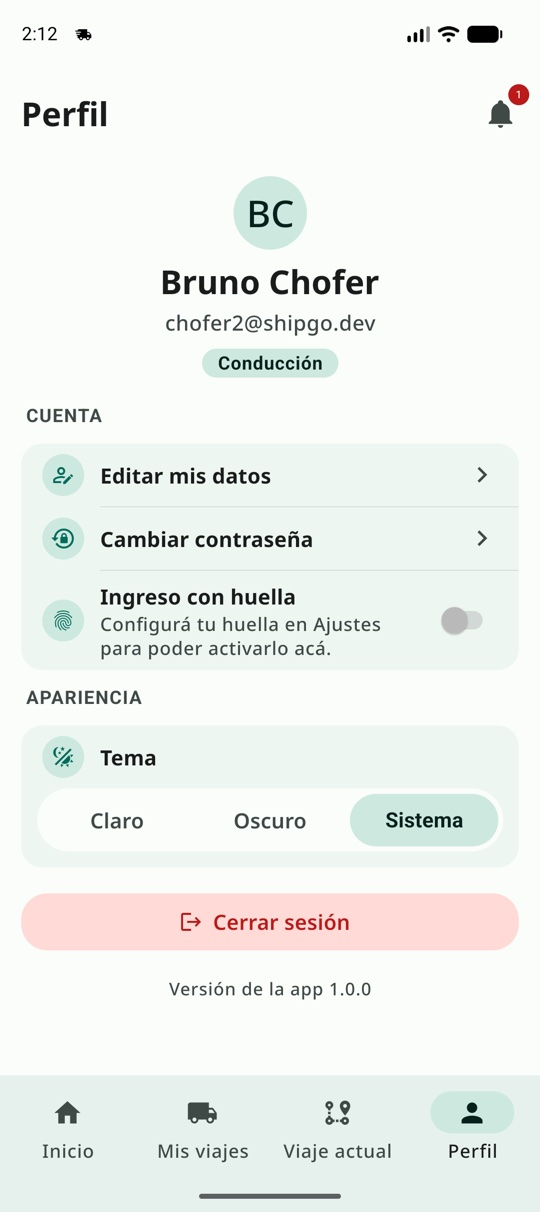
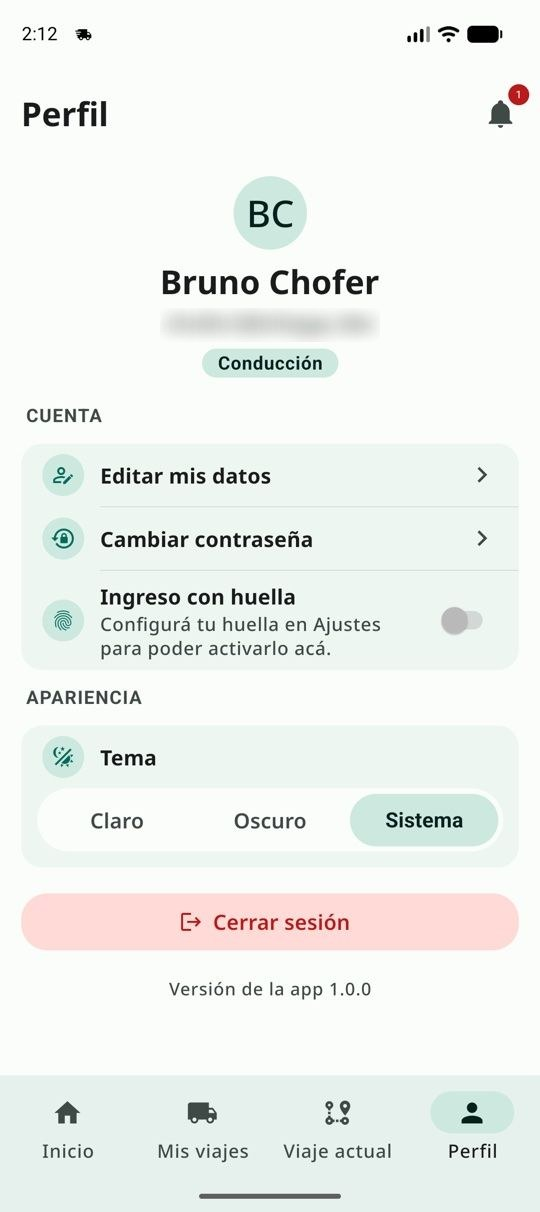
fix(manual): tercera ronda de correcciones de la auditoría
Permisos de edición de usuarios (Administrador vs Superusuario), tabla de
acciones por fila, datos de prueba difuminados en web-07 y capturas
recomprimidas.

Changed region(s): [[0.2963, 0.2442, 0.6815, 0.3053]]

diff --git a/src/content/docs/introduccion/conceptos-basicos.md b/src/content/docs/introduccion/conceptos-basicos.md
@@ -9,18 +9,18 @@ sidebar:
 
 Un **envío** es lo que se le entrega a un destinatario. Un mismo envío puede tener varios **paquetes** (bultos), cada uno con su categoría, peso y una descripción opcional.
 
-Cada envío recibe un **código de seguimiento** único. Con ese código el cliente consulta el estado del envío, y el código viaja impreso en el QR de la [etiqueta](/manual/panel-web/etiqueta-envio/).
+Cada envío recibe un **código de seguimiento** único. Con ese código el Cliente consulta el estado del envío, y el código viaja impreso en el QR de la [etiqueta](/manual/panel-web/etiqueta-envio/).
 
 ### Tipos de entrega
 
 | Tipo | Qué significa |
 |------|---------------|
-| **Entrega a domicilio** | El chofer lleva el envío a la dirección del destinatario. |
+| **Entrega a domicilio** | El Chofer lleva el envío a la dirección del destinatario. |
 | **Retiro en sucursal** | El destinatario retira el envío en una sucursal que se elige al crearlo. |
 
 ### Palabra de entrega
 
-Es una clave de dos palabras (por ejemplo, `LUNA-PERRO`) que le llega por email al **remitente**, junto con el código de seguimiento. El remitente se la pasa a quien recibe el envío y, al momento de la entrega, quien recibe se la dicta al chofer o a quien registra la entrega. Ver [Palabra de entrega](/manual/panel-web/palabra-de-entrega/).
+Es una clave de dos palabras (por ejemplo, `LUNA-PERRO`) que le llega por email al **remitente**, junto con el código de seguimiento. El remitente se la pasa a quien recibe el envío y, al momento de la entrega, quien recibe se la dicta al Chofer o a quien registra la entrega. Ver [Palabra de entrega](/manual/panel-web/palabra-de-entrega/).
 
 ## Sucursal
 
@@ -28,7 +28,7 @@ Una **sucursal** es un punto físico de la empresa. Es el origen de los envíos 
 
 ## Viaje y parada
 
-Un **viaje** agrupa los envíos que se reparten con un vehículo y uno o más choferes, con una fecha y hora de salida y de llegada planificadas.
+Un **viaje** agrupa los envíos que se reparten con un vehículo y uno o más Choferes, con una fecha y hora de salida y de llegada planificadas.
 
 Cada viaje se divide en **paradas**: una por cada destino (un domicilio o una sucursal). Una parada puede incluir varios envíos. El orden de las paradas es el orden de la ruta.
 
@@ -50,12 +50,12 @@ Cada viaje se divide en **paradas**: una por cada destino (un domicilio o una su
 
 | Estado | Significado |
 |--------|-------------|
-| **Creado** | El viaje se ofreció a varios choferes y todavía nadie lo aceptó. En la app del chofer figura como **Pendiente de aceptar**. |
-| **Planificado** | El viaje está armado, con chofer confirmado, y espera la carga. |
+| **Creado** | El viaje se ofreció a varios Choferes y todavía nadie lo aceptó. En la app del Chofer figura como **Pendiente de aceptar**. |
+| **Planificado** | El viaje está armado, con Chofer confirmado, y espera la carga. |
 | **En carga** | Se están cargando los envíos en el vehículo. |
-| **Listo para salir** | La carga está cerrada; el chofer puede iniciar el viaje. |
-| **En camino** | El chofer inició el viaje. |
-| **Con problemas** | Se reportó un incidente. Un administrador puede reanudarlo. |
+| **Listo para salir** | La carga está cerrada; el Chofer puede iniciar el viaje. |
+| **En camino** | El Chofer inició el viaje. |
+| **Con problemas** | Se reportó un incidente. Un Administrador puede reanudarlo. |
 | **Finalizado** | El viaje terminó. |
 | **Cancelado** | El viaje se canceló antes de terminar. |
 

diff --git a/src/content/docs/introduccion/que-es-shipgo.md b/src/content/docs/introduccion/que-es-shipgo.md
@@ -5,7 +5,7 @@ sidebar:
   order: 1
 ---
 
-**ShipGo!** es una plataforma de gestión logística de última milla. Permite a una empresa registrar sus envíos, armar viajes con vehículos y choferes, seguir la flota en el mapa en tiempo real y mantener informados a sus clientes.
+**ShipGo!** es una plataforma de gestión logística de última milla. Permite a una empresa registrar sus envíos, armar viajes con vehículos y Choferes, seguir la flota en el mapa en tiempo real y mantener informados a sus clientes.
 
 ## Qué incluye
 
@@ -14,7 +14,7 @@ ShipGo! se usa desde tres lugares, según quién seas:
 | Herramienta | Para quién | Para qué sirve |
 |-------------|-----------|----------------|
 | **Panel web** | Superusuarios y Administradores | Cargar envíos, planificar viajes, seguir la flota en el mapa, administrar usuarios, vehículos y sucursales, y ver métricas. |
-| **App móvil** | Choferes y operarios de carga | El chofer recibe sus viajes, navega la ruta y registra entregas e incidentes. El operario de carga controla qué envíos se cargan en el vehículo. |
+| **App móvil** | Choferes y Operarios de carga | El Chofer recibe sus viajes, navega la ruta y registra entregas e incidentes. El Operario de carga controla qué envíos se cargan en el vehículo. |
 | **Portal y seguimiento público** | Clientes | Ver el estado de los envíos con una cuenta propia o, sin cuenta, con solo el código de seguimiento. |
 
 Este manual cubre el **panel web**, la **app móvil**, el **portal del cliente** y el **seguimiento público**.
@@ -22,14 +22,14 @@ Este manual cubre el **panel web**, la **app móvil**, el **portal del cliente**
 ## Cómo es la operación de punta a punta
 
 1. El equipo **registra el envío** en el panel web. El sistema le asigna un **código de seguimiento** y, si querés, una [palabra de entrega](/manual/panel-web/palabra-de-entrega/).
-2. Un administrador **arma un viaje** con los envíos pendientes, un vehículo y uno o más choferes.
-3. El operario de carga **carga los envíos** en el vehículo desde la app móvil y cierra la carga.
-4. El chofer **inicia el viaje**, navega las paradas y **registra cada entrega** desde la app.
-5. Mientras tanto, el panel muestra el viaje [en el mapa en vivo](/manual/panel-web/monitoreo-tiempo-real/) y el cliente puede consultar el estado de su envío.
+2. Un Administrador **arma un viaje** con los envíos pendientes, un vehículo y uno o más Choferes.
+3. El Operario de carga **carga los envíos** en el vehículo desde la app móvil y cierra la carga.
+4. El Chofer **inicia el viaje**, navega las paradas y **registra cada entrega** desde la app.
+5. Mientras tanto, el panel muestra el viaje [en el mapa en vivo](/manual/panel-web/monitoreo-tiempo-real/) y el Cliente puede consultar el estado de su envío.
 
 ## Cómo ingresar
 
-Entrá a la dirección web de ShipGo! y elegí el camino que corresponda en la pantalla de inicio. El equipo usa **Iniciar sesión**; los clientes usan el portal. Más detalles en [Acceso, inicio y buscador](/manual/panel-web/acceso-inicio-y-buscador/).
+Entrá a la dirección web de ShipGo! y elegí el camino que corresponda en la pantalla de inicio. El equipo usa **Iniciar sesión**; los Clientes usan el portal. Más detalles en [Acceso, inicio y buscador](/manual/panel-web/acceso-inicio-y-buscador/).
 
 :::note
 Los datos que ves en las capturas de este manual son de prueba. Nombres, direcciones, teléfonos y fechas no corresponden a personas ni operaciones reales.
